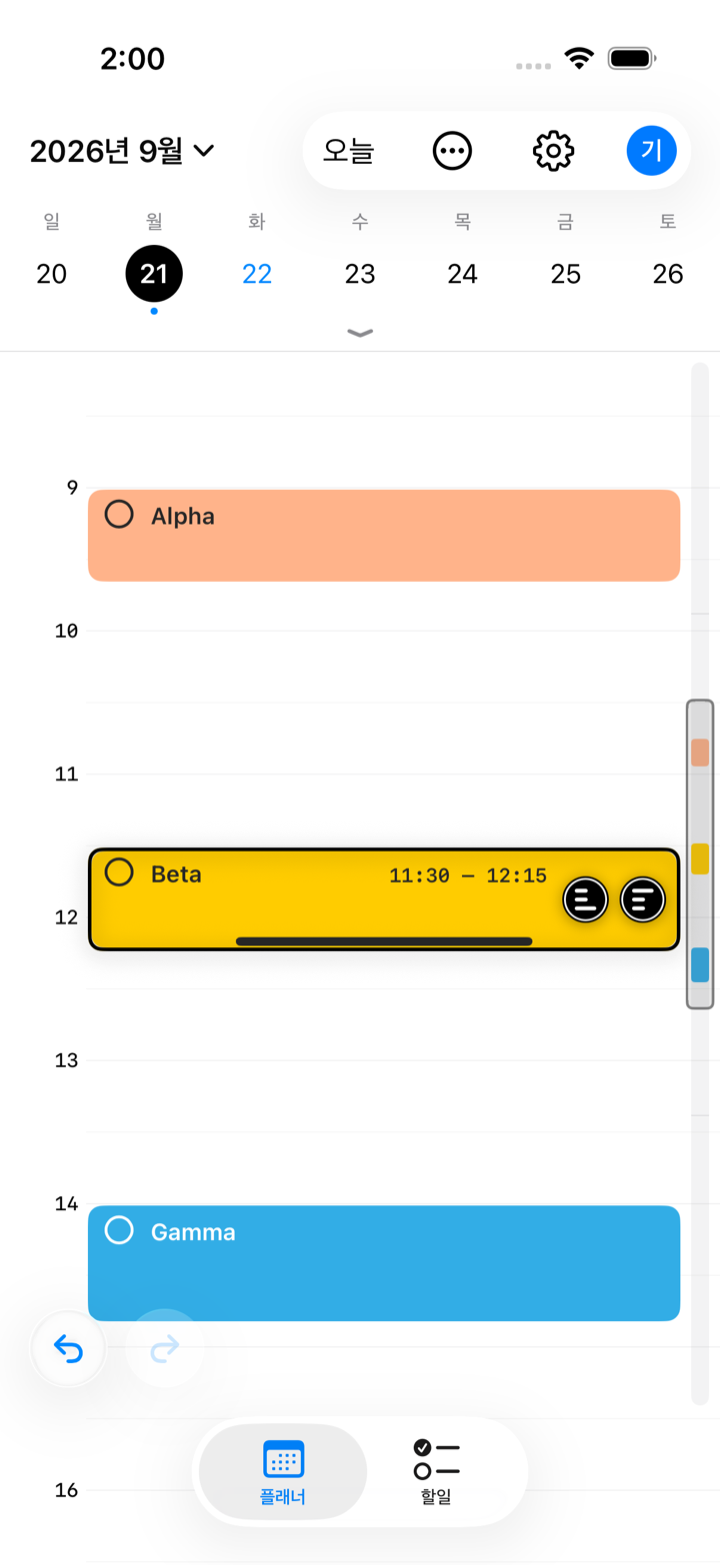
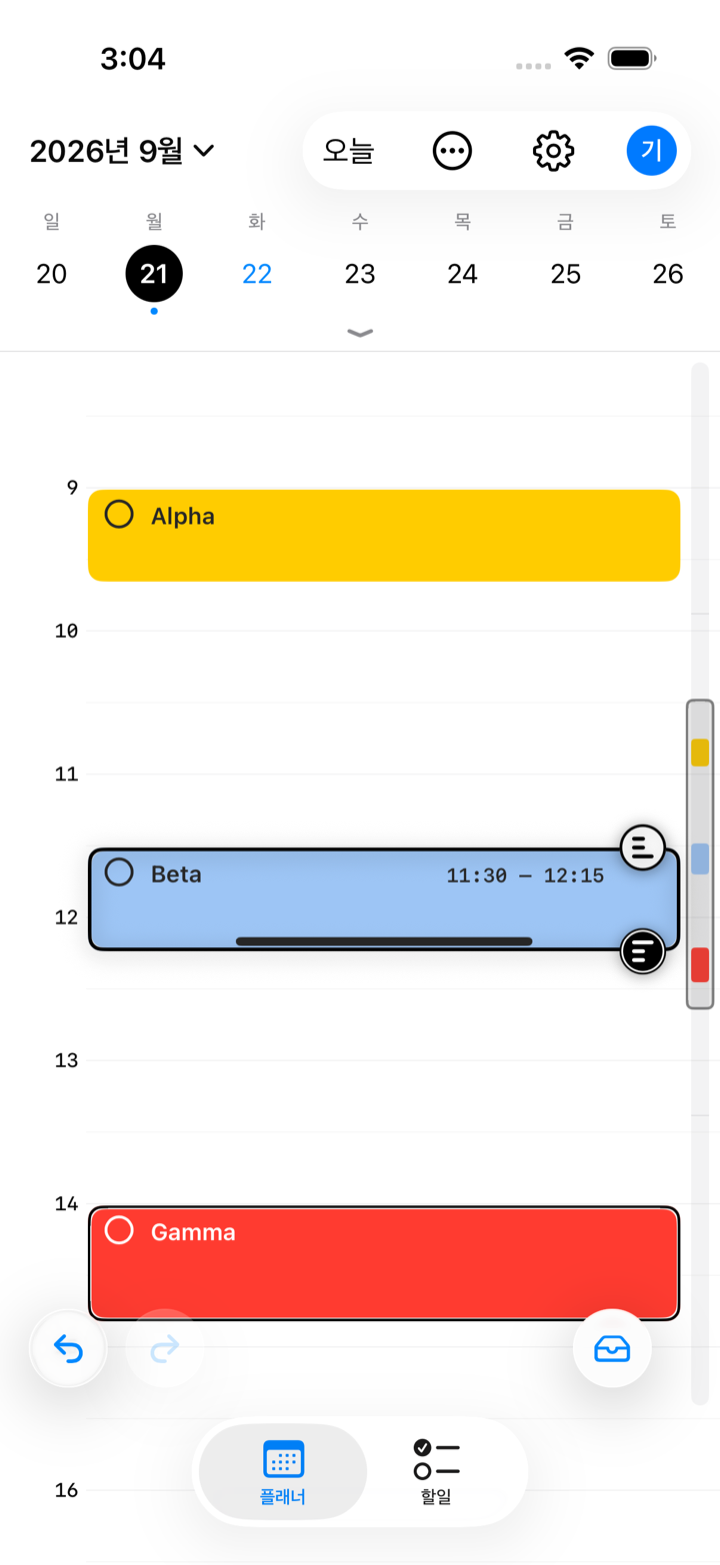
improve: blog — 컨텍스트 메뉴를 없앴다 (merge 2026-09-22, 블록 위 문법 넷 + 함정 둘)
Claude-Session: https://claude.ai/code/session_01XvG2ybDs5aQ3nYVyucPk2w

diff --git a/src/content/blog/en/2026-09-20-planner-block-menu.md b/src/content/blog/en/2026-09-20-planner-block-menu.md
@@ -19,7 +19,7 @@ Todo apps mostly agree on the answer: a context menu where the block is. The new
 | Tap the checkbox at the left | Toggle done, regardless of selection |
 | Tap an unselected block | Select it |
 | Tap the selected block again | Context menu: edit, move earlier ▸, push back ▸, swap ▸, yesterday, tomorrow, drawer, remove from schedule (reworked three times, see the 2026-09-21 sections below; the last of them gave the rows a naming rule, so these read *Pull Earlier* / *Push Later* now) |
-| Hold 0.2 s then drag, or drag a selected block | Move, unchanged (drag one of the chips on the selected block's right side and everything before or after comes along; tap it for the sheet — last section, 2026-09-22) |
+| Hold 0.2 s then drag, or drag a selected block | Move, unchanged (with a group chip on, everything before or after comes along; release over the drawer button to park — last section, 2026-09-22, where the context menu itself goes away) |
 
 ![A block completed from the checkbox. Strikethrough and the faded color are the done look; the checkbox is the control that flips it](/blog/planner-block-menu/checkbox-done.png)
 
@@ -265,33 +265,51 @@ Hiding the hatch during the move and restoring it on arrival was the obvious alt
 
 The timeline canvas and the minimap each hold one of these and follow the same rule. Settled screenshots cannot catch timing like this, so the rule was pulled out as a plain type and pinned with unit tests: the old value holds while the block slides, it updates after the landing, and a drag updates at once.
 
-## 2026-09-22 — Ten rows and a sheet, replaced by dragging one chip (which must not sit on an edge)
+## 2026-09-22 — The context menu is gone: four gestures on a block are enough
 
 Eight rounds of menu work made the move group precise, and just as deep. Pushing this block and everything after it back by thirty minutes took six taps: select, tap again for the menu, *Push Later ▸*, *This and all later…*, *30 min* in the sheet, *Push*. Four of the six are places where you read and choose. The feedback was short: too deep, too much reading, why not icons or a gesture.
 
-A move decides three things: which way, how far, and what comes along. The menu asks all three in words. The drag that already existed answers the first two with one finger; the only thing it could not do was *what comes along*. A drag always moved one block, and there was no gesture for several, so the menu had to carry everything.
+A move decides three things: which way, how far, and what comes along. The menu asks all three in words. The drag that already existed answers the first two with one finger; the only thing it could not do was *what comes along*.
 
-So the selected block now carries two small chips. Drag one and this block plus **everything after it** slides the same distance; drag the other and **everything before it** comes along. Release and it applies — no sheet. Direction is the finger, distance is the finger plus snapping, and scope is which chip you grabbed. Six taps became one tap and one drag.
+### The chip moved three times
 
-The first build put the chips on the block's top-right and bottom-right **corners** — top means before, bottom means after, position is meaning. The first screenshot drew an immediate objection: "that looks like a resize handle; moving on it would feel wrong." It would. The resize handles already live on the block's top and bottom edges, and anything straddling those edges reads as "pull this edge". Two kinds of handle on one edge cannot be told apart until you drag. So the chips moved off the edges to the **middle of the block's right side**, side by side: left chip for everything before, right chip for everything after. Away from the edges they read as buttons on the block, and since the finger decides the direction anyway, the chip never needed to encode up or down.
+The first build put **drag handles** on the block's top-right and bottom-right corners: grab the bottom one and everything after comes along. The first screenshot drew an immediate objection — "that looks like a resize handle; moving on it would feel wrong." It would. The resize handles already live on those edges.
 
-![The selected middle block shows two chips side by side at mid-height on the right. The three bars in a chip: the wide one is this block, the short pair are the blocks that come along](/blog/planner-block-menu/group-chips-selected.png)
+The second build moved the chips to the middle of the right side, side by side, drag to move and tap for a sheet. Off the edges they no longer read as handles, but now they had lost the top/bottom meaning. "Top and bottom is better. Put them back where they were, but instead of press-and-drag, **tapping selects this block plus everything on that side**, visibly grouped. Drag in that state and they all move. A toggle, so it can be turned off."
 
-![After dragging the right chip: the grabbed block moved an hour later and the block after it moved the same amount. The block before stayed put](/blog/planner-block-menu/group-chips-after-drag.png)
+That was the answer. My objection to toggles had been that you have to read which mode is on; when every grouped block wears a ring, the state is on screen. And a tap is a different grammar from a drag, so the chip can sit on the same edge as the resize handle without confusion. Seeing what will travel before you drag comes for free.
 
-Something that looks like a button should answer a tap. Tapping a chip opens the move sheet for that scope, and the sheet gained a *Pull Earlier / Push Later* segment at the top. Drag for roughly, tap and pick for exactly thirty minutes — both start from the same spot. The segment defaults to whichever direction clears an overlap sooner: back if the block rides the tail of the one before, forward if it sits on the head of the one after, back when nothing overlaps.
+![The middle block is selected and its bottom chip is on: the chip is filled and the block after it has a thin ring. Dragging the body now moves both](/blog/planner-block-menu/group-chips-selected.png)
 
-![The sheet a chip opens: the direction segment on top, the same distance list below](/blog/planner-block-menu/group-chip-sheet.png)
+![After the drag: the grabbed block and the one after it moved the same amount; the block before stayed put](/blog/planner-block-menu/group-chips-after-drag.png)
 
-A chip appears only when there is something in that direction. The first block of the day has no left chip; the last has no right chip, so the chip itself says "there is something this way". The glyph speaks the same language as the submenu icons: bars are blocks, the wide bar is the one you grabbed, the short ones follow.
+### And then the menu had nothing left to do
 
-The sheet's two smart presets became magnets. Only the grabbed block snaps — to the grid and to the edges of blocks that stay put — and the rest take the same offset. *Until it meets the block before* is now the grabbed block's start catching on the previous block's end, and *Until clear of overlap* is it catching on the end of whatever it overlaps. Blocks that travel together keep their spacing, so they are not magnet candidates for each other.
+With moving handled by the chips, the menu held edit, swap, drawer and remove. One more step: "Swap can go. Keep the drawer button at the bottom right at all times and drag blocks onto it. Edit opens when you tap the selected block again. Then the context menu is not needed."
 
-The wall is different from the sheet's. The sheet's push pins each block that would cross midnight to 24:00 individually and leaves them overlapping. In a live drag that would show the group crumpling against the wall in real time. So the group's own ends are the wall: if any block would leave the day, the whole group stops, and the blocked distance feeds the same resistance haptic and squash a single-block drag already had.
+| Menu row | Where it went |
+|---|---|
+| Edit… | **Tap the selected block again** |
+| Move ▸ (ten rows) | Top/bottom chip toggle + body drag |
+| Swap Places ▸ | Removed — dragging already does that |
+| Move to Drawer | The drawer button is **always** there; drop a block on it. A group goes in whole |
+| Remove from Schedule | The editor already ends with *Delete this block* |
 
-Several alternatives lost. Up and down arrow buttons on the selected block, one snap unit per tap, take six taps for thirty minutes at a five-minute snap, and a scope toggle is a mode you have to read. Ripple editing from the time ruler — grab the gap between blocks and everything below moves — has a clean mental model but starts without a selection, so it is harder to find than a chip. A two-finger drag is hardest to find and cannot tell before from after. The scrollbar lane on the right is 22 pt wide and already owned by scrub and jump, and cutting a gutter between the blocks and the lane would let a bracket show what travels together, at the price of every block losing eight percent of its width. Five chips, one per menu scope, do not fit in a row, and the two "excluding this one" scopes are rare enough to stay in the menu.
+So a block has four gestures: checkbox = done, tap = select, tap again = edit, drag = move (grouped if a chip is on, into the drawer if released over the button). Nothing to read. The context menu, the transparent `UIButton` that presented it and its `require(toFail:)` acrobatics, the move sheet and swap all left the codebase — most of what the earlier sections of this post fought is gone.
 
-The menu went from ten rows to three. *Pull Earlier ▸* and *Push Later ▸* folded into one *Move ▸* with *This One Only*, *All Earlier*, *All Later* under it; the two "including this one" scopes went to the chips and the direction went into the sheet. The reschedule event now records whether a move came from a drag or a sheet. A tutorial step for the chips is still to do.
+![Right after dropping a block on the drawer button: it leaves the timeline, the button shows 1, and a short "moved to the drawer" note appears](/blog/planner-block-menu/drawer-drop.png)
+
+Details. In a group drag only the grabbed block snaps, to the grid and to the edges of blocks that stay put; the rest take the same offset, so the sheet's *until it meets the block before* and *until clear of overlap* are now magnets. The wall is the group's own ends: if any block would leave the day, the whole group stops, with the same resistance haptic a single drag has. The drawer button sits inside the bottom auto-scroll zone, so hovering over it used to scroll the page; while the finger is within the button's radius, auto-scroll pauses. Grouping applies only to moving and the drawer — applying it to edit or delete would remove five blocks without a confirmation.
+
+### The tests split down the middle
+
+Five of the eight drawer UI tests failed, alternating. Neighbouring tests with identical setup passed, and the failing set changed every run, so it looked like machine-load flakiness. The failures all read "no row in the drawer sheet", which naturally means "the drop did not work" — so I fixed the drop hit test. Five still failed.
+
+The answer was in the accessibility dump XCUITest attaches when a query fails. The drawer button was there, labelled **"drawer · 1"**. The park had worked; the *next* tap had not. The button's frame was 48pt instead of 44 — it was still growing. After a park the button springs once and a "moved to the drawer" note sits above it for 1.8 seconds, and the test waited 1.2 before tapping. That 1.2 < 1.8 was the whole bug. The thing to wait for was not a duration but the note being gone.
+
+That left one failure, and only on **today's page**. Today scrolls so that "now" sits a third of the way down, which puts the block mid-screen; from there to the bottom-right drawer button the horizontal travel exceeds the vertical. On any other day 08:00 is at the top, so the drag is steeply vertical. The moment horizontal wins, the **date pager takes the gesture** and the day flips, so the drop happens on a page that does not hold that block and silently does nothing. When the target sits in a screen corner, the path is always diagonal — I had forgotten that. The pager is now locked while a block is being dragged.
+
+What was lost: delete is one tap longer (tap again → sheet → *Delete this block* → confirm), while the drawer became one gesture, so the quick way to clear a block is the drawer. There is no sheet for an exact "30 minutes"; the five-minute snap and the time pill do that job. The tutorial's *Block menu* step became *Open the editor*; steps for grouping and the drawer are still to come.
 
 ## History
 
@@ -304,4 +322,4 @@ The menu went from ten rows to three. *Pull Earlier ▸* and *Push Later ▸* fo
 - 2026-09-21 — Removed *Move to yesterday* and *Move to tomorrow* so the drawer is the only way off a day; reschedules and undo now show the move
 - 2026-09-21 — Gave the rows one naming grammar (`Pull Earlier` ↔ `Push Later`), and caught the catalog trap where renaming a key leaves only Korean devices on the old wording
 - 2026-09-21 — Took undo's screen movement back out, and made the overlap hatch wait until the blocks land
-- 2026-09-22 — Two group chips at mid-height on the selected block (first on the corners, moved once they read as resize handles) turn "move everything before or after" from six taps into one tap and one drag; tapping a chip opens the sheet, and the menu shrank to *Move ▸* with three rows
+- 2026-09-22 — Group chips (tap to toggle, then drag the body), tap-again-to-edit and drag-onto-the-drawer replaced the context menu, the move sheet and swap. Four gestures on a block
